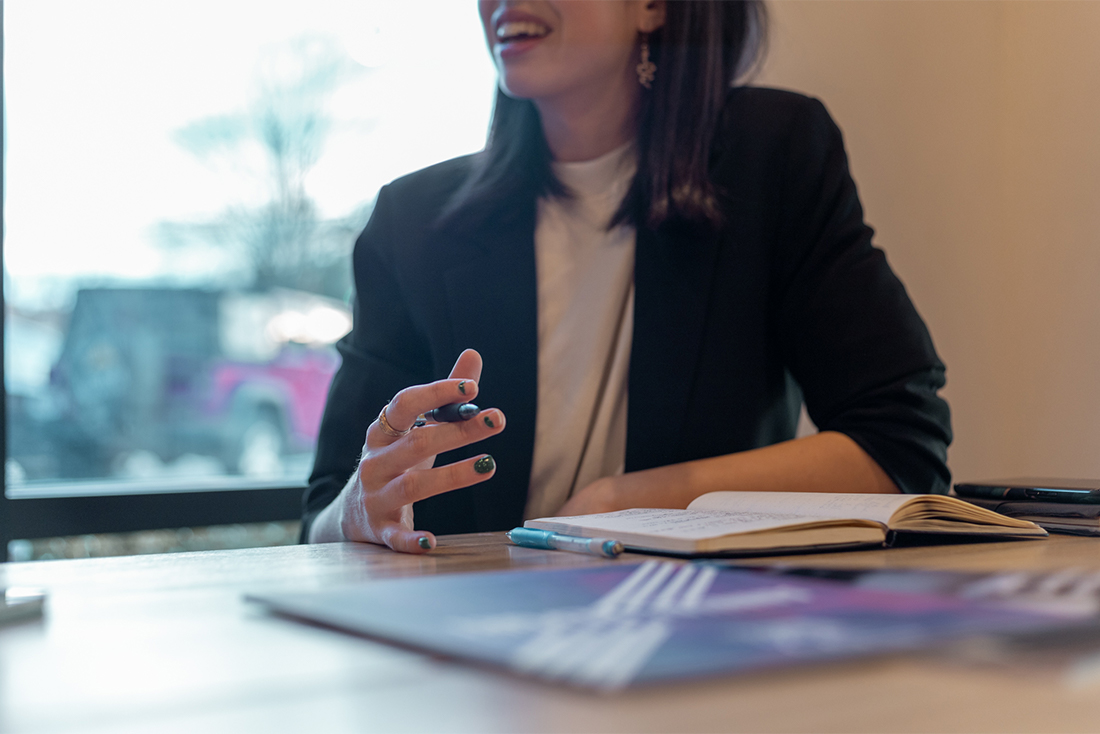
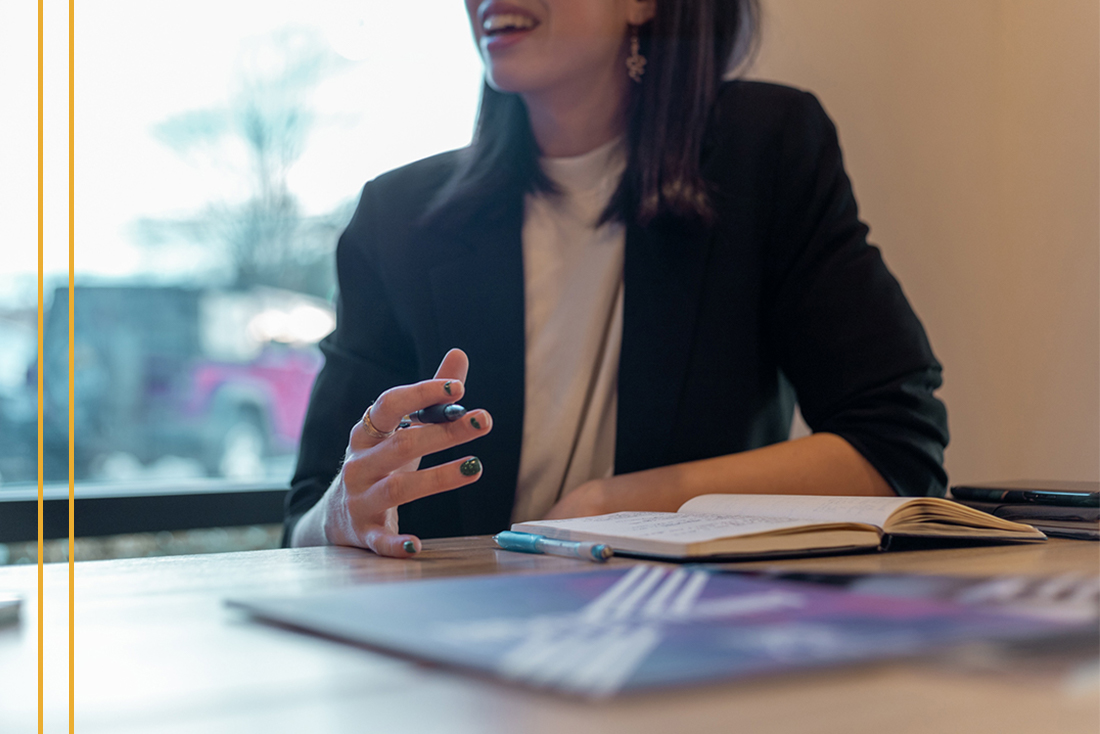
Updated pictures on branding exp page
- updated slider pictures at the bottom
- Added some geometric shapes to some of the progress pictures
- updated names on photography portfolio page just a little bit

diff --git a/experience/branding.html b/experience/branding.html
@@ -344,48 +344,48 @@
 			<!-- end Prices section -->
 
 			<!-- Portfolio section -->
-			<div class="section-sm padding-y-30">
+			<div class="section-sm padding-y-10">
 				<div class="container-fluid padding-30">
 					<div class="owl-carousel portfolio-carousel">
 						<div class="portfolio-carousel-item">
-							<a href="../1.%20Home%20Pages/photographer-simple.html">
+							<a href="../portfolio/branding.html">
 								<div class="portfolio-img">
-									<img src="../assets/images/ATL_Boudoir_Ruth-56_1100_733_website.jpg" alt="photography Serpent Studios">
+									<img src="../assets/images/Mockup_HorizontalA5_Brochure_1_1100_734.jpg" alt="branding Serpent Studios">
 								</div>
 							</a>
 						</div>
 						<div class="portfolio-carousel-item">
-							<a href="../1.%20Home%20Pages/photographer-simple.html">
+							<a href="../portfolio/branding.html">
 								<div class="portfolio-img">
-									<img src="../assets/images/Pinkie_senior-4_1100_733_website.jpg" alt="photography Serpent Studios">
+									<img src="../assets/images/Free_Landscape_Brochure_Mockup_02_PCH_1100_734.jpg" alt="branding Serpent Studios">
 								</div>
 							</a>
 						</div>
 						<div class="portfolio-carousel-item">
-							<a href="../1.%20Home%20Pages/photographer-simple.html">
+							<a href="../portfolio/branding.html">
 								<div class="portfolio-img">
-									<img src="../assets/images/Oakland_Cemetary_2-92_1100_733_website.jpg" alt="photography Serpent Studios">
+									<img src="../assets/images/Brand_Guides_Lighting_2-80_1100_734.jpg" alt="branding Serpent Studios">
 								</div>
 							</a>
 						</div>
 						<div class="portfolio-carousel-item">
-							<a href="../1.%20Home%20Pages/photographer-simple.html">
+							<a href="../portfolio/branding.html">
 								<div class="portfolio-img">
-									<img src="../assets/images/ATL_Boudoir_Hannah-64_1100_733.jpg" alt="photography Serpent Studios">
+									<img src="../assets/images/Brand_Guides_Lighting_2-62_1100_734.jpg" alt="branding Serpent Studios">
 								</div>
 							</a>
 						</div>
 						<div class="portfolio-carousel-item">
-							<a href="../1.%20Home%20Pages/photographer-simple.html">
+							<a href="../portfolio/branding.html">
 								<div class="portfolio-img">
-									<img src="../assets/images/ATL_Boudoir_Hannah-64_1100_733.jpg" alt="photography Serpent Studios">
+									<img src="../assets/images/Free_Landscape_Brochure_Mockup_05_1100_734.jpg" alt="branding Serpent Studios">
 								</div>
 							</a>
 						</div>
 						<div class="portfolio-carousel-item">
-							<a href="../1.%20Home%20Pages/photographer-simple.html">
+							<a href="../portfolio/branding.html">
 								<div class="portfolio-img">
-									<img src="../assets/images/ATL_Boudoir_Hannah-64_1100_733.jpg" alt="photography Serpent Studios">
+									<img src="../assets/images/Brand_Guides_Lighting_2-7_1100_734.jpg" alt="branding Serpent Studios">
 								</div>
 							</a>
 						</div>

diff --git a/portfolio/photography.html b/portfolio/photography.html
@@ -141,7 +141,7 @@
 								<img src="../assets/images/ATL_Boudoir_Marta-122_website.jpg" alt="Photography Marta Boudoir Portfolio Serpent Studios">
 								<div class="portfolio-hover">
 									<div class="portfolio-hover-box">
-										<h2 class="font-weight-medium text-white">Portrait: Boudoir Marta</h2>
+										<h2 class="font-weight-medium text-white">Portrait Boudoir Marta</h2>
 									</div>
 								</div>
 							</a>
@@ -153,7 +153,7 @@
 								<img src="../assets/images/ATL_Boudoir_Ruth-56_website.jpg" alt="Photography Ruth Portrait Portfolio Serpent Studios">
 								<div class="portfolio-hover">
 									<div class="portfolio-hover-box">
-										<h2 class="font-weight-medium text-white">Portrait: Boudoir Ruth</h2>
+										<h2 class="font-weight-medium text-white">Portrait Boudoir Ruth</h2>
 									</div>
 								</div>
 							</a>
@@ -165,7 +165,7 @@
 								<img src="../assets/images/Lyrica-136_website.jpg" alt="Photography Lyrica Fashion Portrait Portfolio Serpent Studios">
 								<div class="portfolio-hover">
 									<div class="portfolio-hover-box">
-										<h2 class="font-weight-medium text-white">Portrait: Lyrica</h2>
+										<h2 class="font-weight-medium text-white">Portrait Lyrica</h2>
 									</div>
 								</div>
 							</a>
@@ -261,7 +261,7 @@
 								<img src="../assets/images/Kanas_models-33_1100_1100_website.jpg" alt="Photography Hannah Luke Model Models Portrait portfolio Serpent Studios">
 								<div class="portfolio-hover">
 									<div class="portfolio-hover-box">
-										<h2 class="font-weight-medium text-white">Portrait Luke and Hannah</h2>
+										<h2 class="font-weight-medium text-white">Portrait Luke and Hannah H.</h2>
 									</div>
 								</div>
 							</a>
